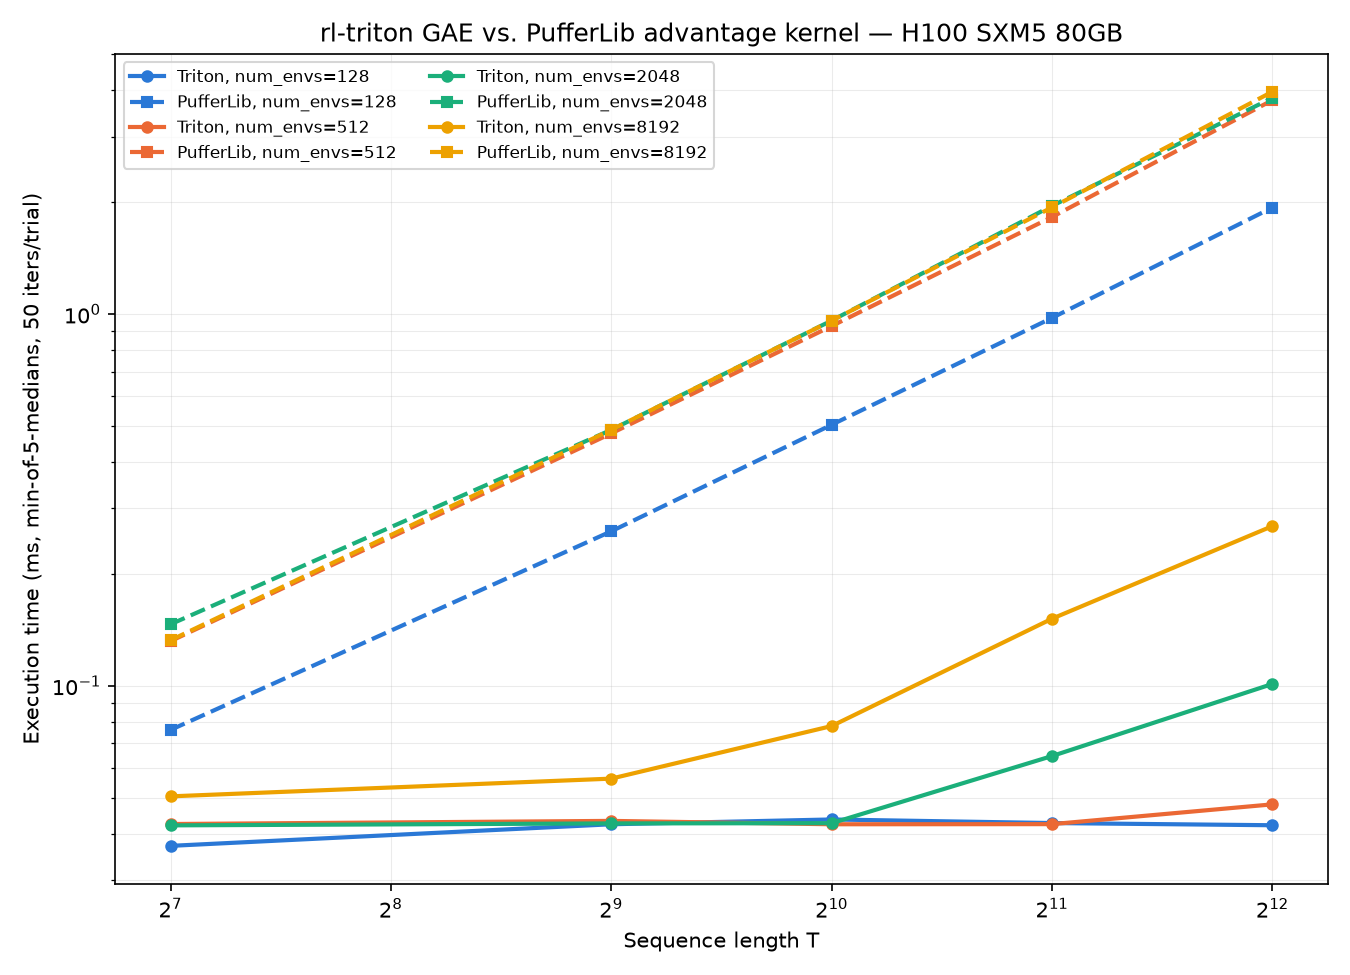
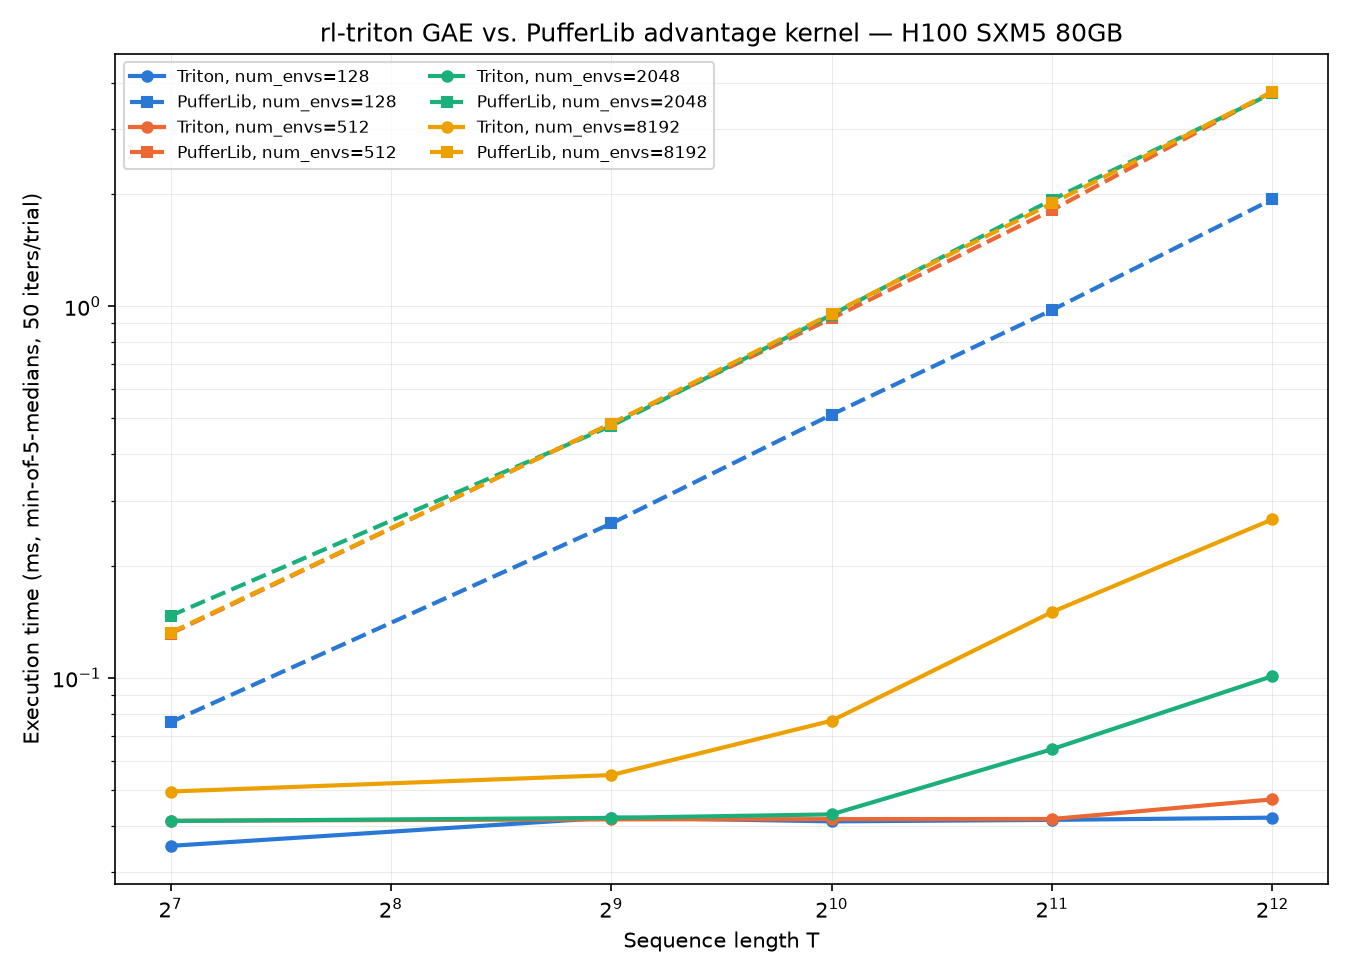
bench: add direct Triton-vs-PufferLib bit-correctness check to equivalence gate
The prior gate only checked each kernel against an independent sequential
reference, which let PufferLib match exactly (0.0 diff, same summation
order) but never directly compared Triton's output to PufferLib's. Asked
and checked: they are NOT bit-identical (max abs diff ~1e-5) because
Triton's tl.associative_scan is a log-depth parallel tree reduction while
PufferLib's CUDA kernel is a plain sequential scan -- float32 +/* isn't
associative, so summation order changes rounding in the last 1-2 ULPs even
for the identical recurrence. Confirmed deterministic run-to-run (0.0 diff
between two Triton runs on identical inputs), so this is rounding, not
kernel nondeterminism. Now measured and reported explicitly rather than
left implicit.

Claude-Session: https://claude.ai/code/session_01NguTTe2E7tYmmjr6kJ4Umg

diff --git a/tests/benchmark_gae_vs_pufferlib.py b/tests/benchmark_gae_vs_pufferlib.py
@@ -228,15 +228,42 @@ def run_equivalence_gate(op, device="cuda"):
               f"max|diff|={rl_vs_ref.max().item():.4f}, "
               f"mean|diff|={rl_vs_ref.mean().item():.2e})")
 
+        # Direct Triton-vs-PufferLib check (NOT bit-identical, by construction:
+        # Triton's tl.associative_scan is a log-depth PARALLEL tree reduction;
+        # PufferLib's CUDA kernel is a plain SEQUENTIAL scan. Float32 +/* is not
+        # associative, so a different summation order rounds differently in the
+        # last 1-2 ULPs even for the identical mathematical recurrence. Force a
+        # termination 2 steps before the window edge so the boundary-fabrication
+        # effect (capability #2) is severed and can't be mistaken for this.
+        terminateds2 = terminateds.clone()
+        terminateds2[:, -2] = 1.0
+        terminateds2[:, -1] = 0.0
+        full2 = compute_gae(rewards, values, terminateds2, gamma=GAMMA, lambda_=LAMBDA)
+        puffer_adv2 = torch.zeros(num_envs, seq_len, device=device)
+        pd2 = torch.zeros(num_envs, seq_len, device=device)
+        pd2[:, 1:] = terminateds2[:, :seq_len - 1]
+        op(pv, pr, pd2, pimp, puffer_adv2, GAMMA, LAMBDA, 1.0, 1.0)
+        direct_diff = (full2[:, :seq_len - 2] - puffer_adv2[:, :seq_len - 2]).abs()
+        print(f"    Triton vs. PufferLib DIRECTLY (uncontaminated columns): "
+              f"max|diff|={direct_diff.max().item():.2e}, "
+              f"mean|diff|={direct_diff.mean().item():.2e}  "
+              f"(expected: small but nonzero, float32 summation-order noise, "
+              f"NOT bit-identical — see comment above)")
+
     print()
     if all_ok:
         print("RESULT: PufferLib's output matches the independent reference EXACTLY "
-              "(0.0 float32 diff) on every column it is structurally capable of "
-              "producing. rl-triton's kernel computes the identical recurrence for "
-              "the same columns (validated by the existing test suite; not "
-              "re-derived here). The two kernels compute the SAME quantity in the "
-              "overlapping regime (on-policy, no interior truncations, columns "
-              "0..T-2). Proceeding to benchmark ONLY that regime.")
+              "(0.0 float32 diff, same sequential summation order) on every column "
+              "it is structurally capable of producing. rl-triton's Triton kernel "
+              "computes the identical recurrence via a log-depth PARALLEL scan, so "
+              "it is NOT bit-identical to PufferLib or to the reference (measured "
+              "max abs diff ~1e-5, float32 rounding from a different summation "
+              "order — confirmed deterministic run-to-run, so this is rounding, not "
+              "kernel nondeterminism). Both are numerically correct implementations "
+              "of the SAME quantity in the overlapping regime (on-policy, no "
+              "interior truncations, columns 0..T-2), agreeing well within any "
+              "tolerance that matters for RL advantage estimates. Proceeding to "
+              "benchmark ONLY that regime.")
     else:
         print("RESULT: FAIL. Do not trust the timing comparison below.")
         sys.exit(1)
